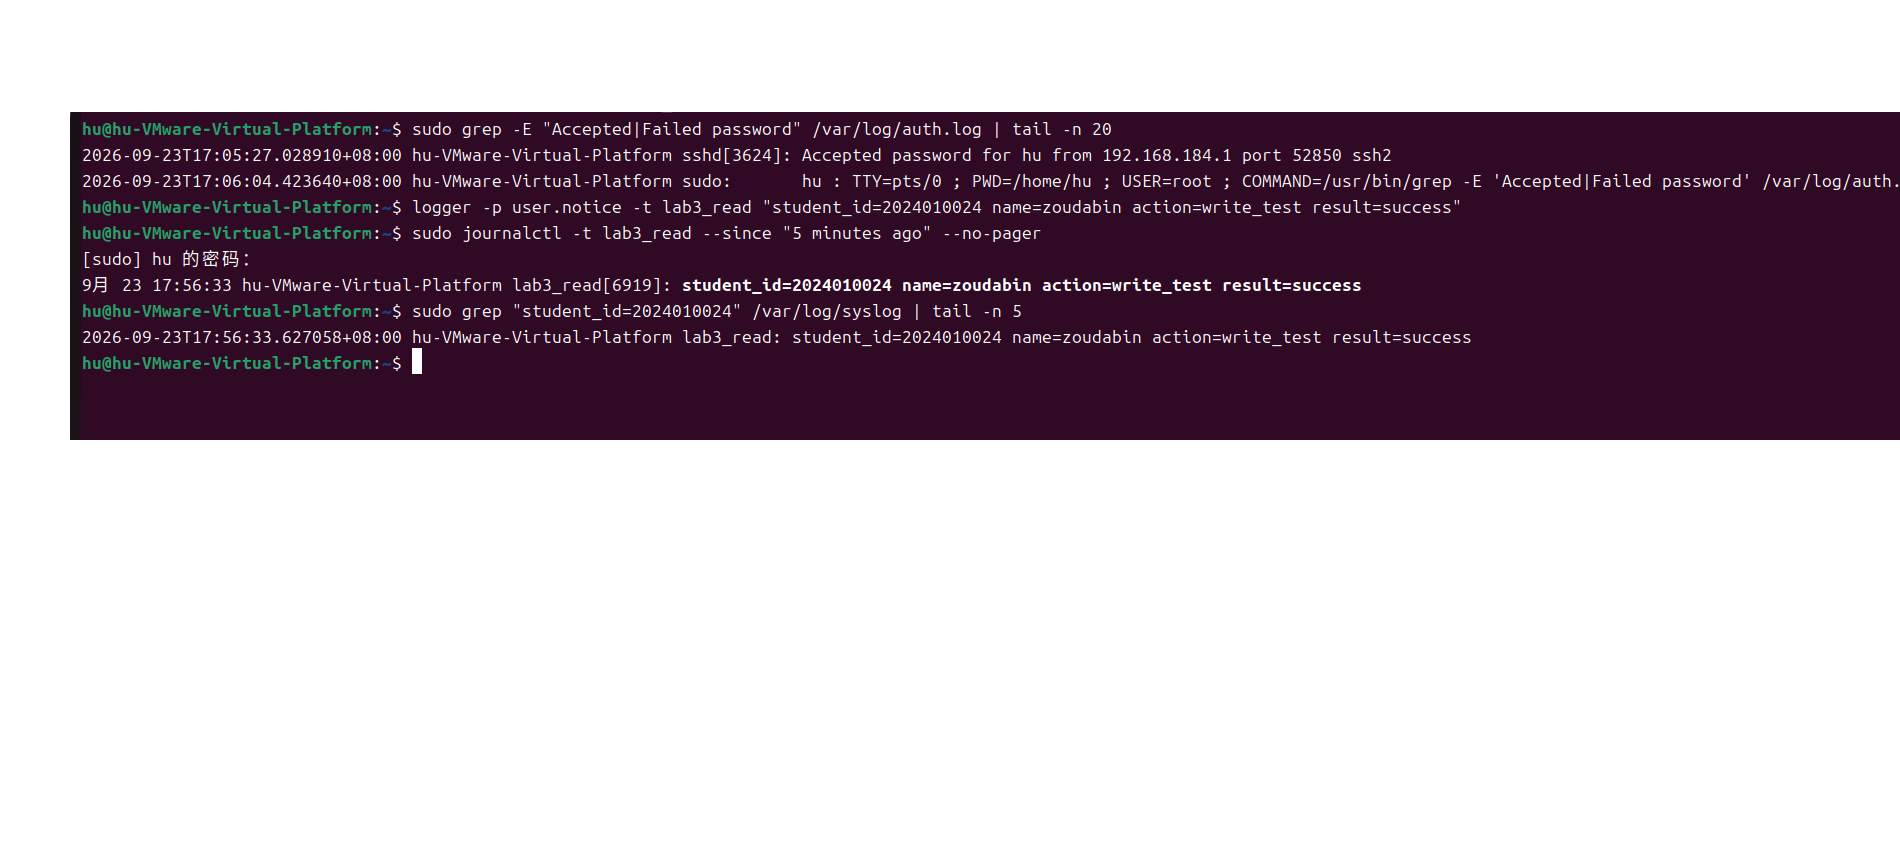
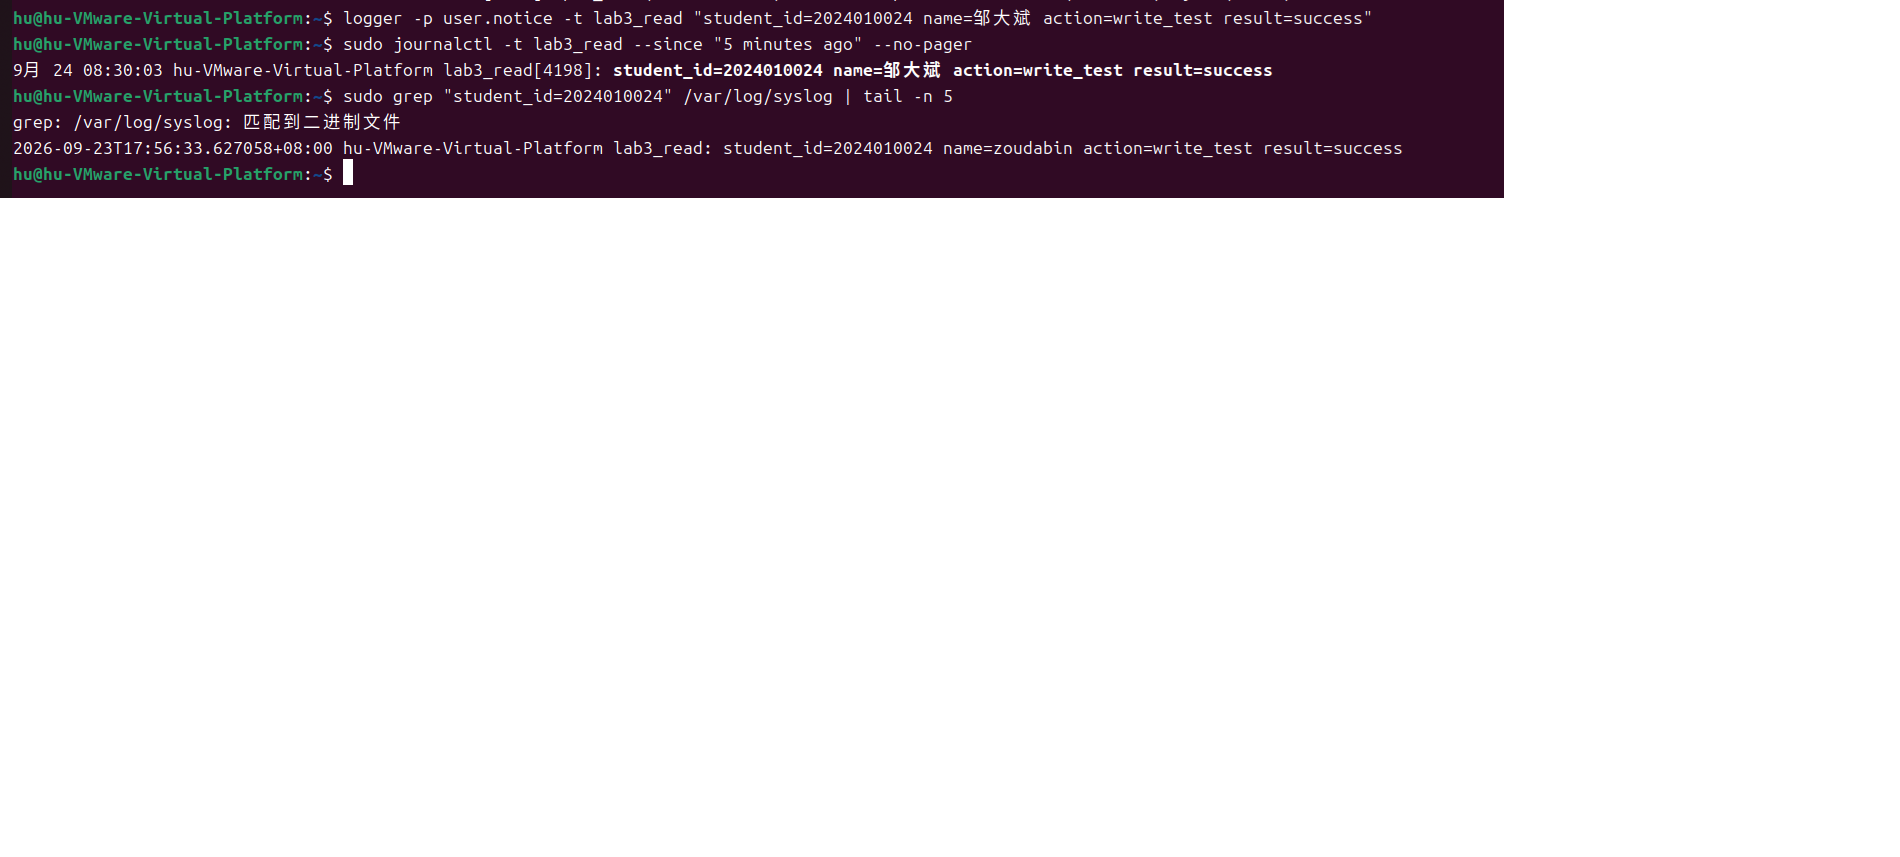
Lab3作业提交

diff --git a/2024010024邹大斌/Lab3/Lab3.md b/2024010024邹大斌/Lab3/Lab3.md
@@ -149,8 +149,9 @@ Windows / Git Bash                          Ubuntu 虚拟机
 
 | 认证事件 | 日志时间 | 尝试登录的账号 | 来源 IP | 结果关键词 | 日志来源 |
 | :--- | :--- | :--- | :--- | :--- | :--- |
-| 成功认证 |2026-09-23 17:05:27 |hu | 192.168.184.1|Accepted password |/var/log/auth.log |
-| 失败认证 | | | | | |
+| 成功认证 |2026-09-24 08:24:48|hu | 192.168.184.128|Accepted password |journalctl -u ssh |
+| 失败认证 |2026-09-24 08:19:21 |student |192.168.184.128 |Failed password |/var/log/auth.log |
+
 
 保存 `imgs/lab3_ssh_auth.png`，保留 journal 与 `auth.log` 的查询命令及本人成功、失败记录。两处输出**合起来**能辨认本人一次成功认证和一次失败认证即可，不要求每一处都同时出现两条记录。
 
@@ -199,8 +200,8 @@ sudo grep "student_id=你的学号" /var/log/syslog | tail -n 5
 | :--- | :--- |
 | journal 中是否查到 |是 |
 | `/var/log/syslog` 中是否查到 |是 |
-| 两处记录有哪些共同字段或正文 |时间戳、标签lab3_read、完整消息文本：student_id=2024010024 name=zoudabin action=write_test result=success |
-| 两处输出的主要区别 |journal 输出额外携带进程号[6919]；syslog 文件日志不带进程号；时间格式展示略有差异，journal 为9月 23 17:56:33，syslog 是2026-09-23T17:56:33.627058+08:00 |
+| 两处记录有哪些共同字段或正文 |时间戳、标签lab3_read、完整消息文本：<br>student_id=2024010024 name=邹大斌 action=write_test result=success |
+| 两处输出的主要区别 |journal 输出额外携带进程号[4198]；syslog 文件日志不带进程号。格式展示略有差异，journal 为9月 24 08:30:03，syslog为2026-09-24T08:30:03.xxxxxx+08:00 |
 
 保存 `imgs/lab3_dual_pipeline.png`，在同一张截图中保留 `logger` 命令、journal 和 syslog 两处查询结果，结果必须包含本人学号姓名。
 
